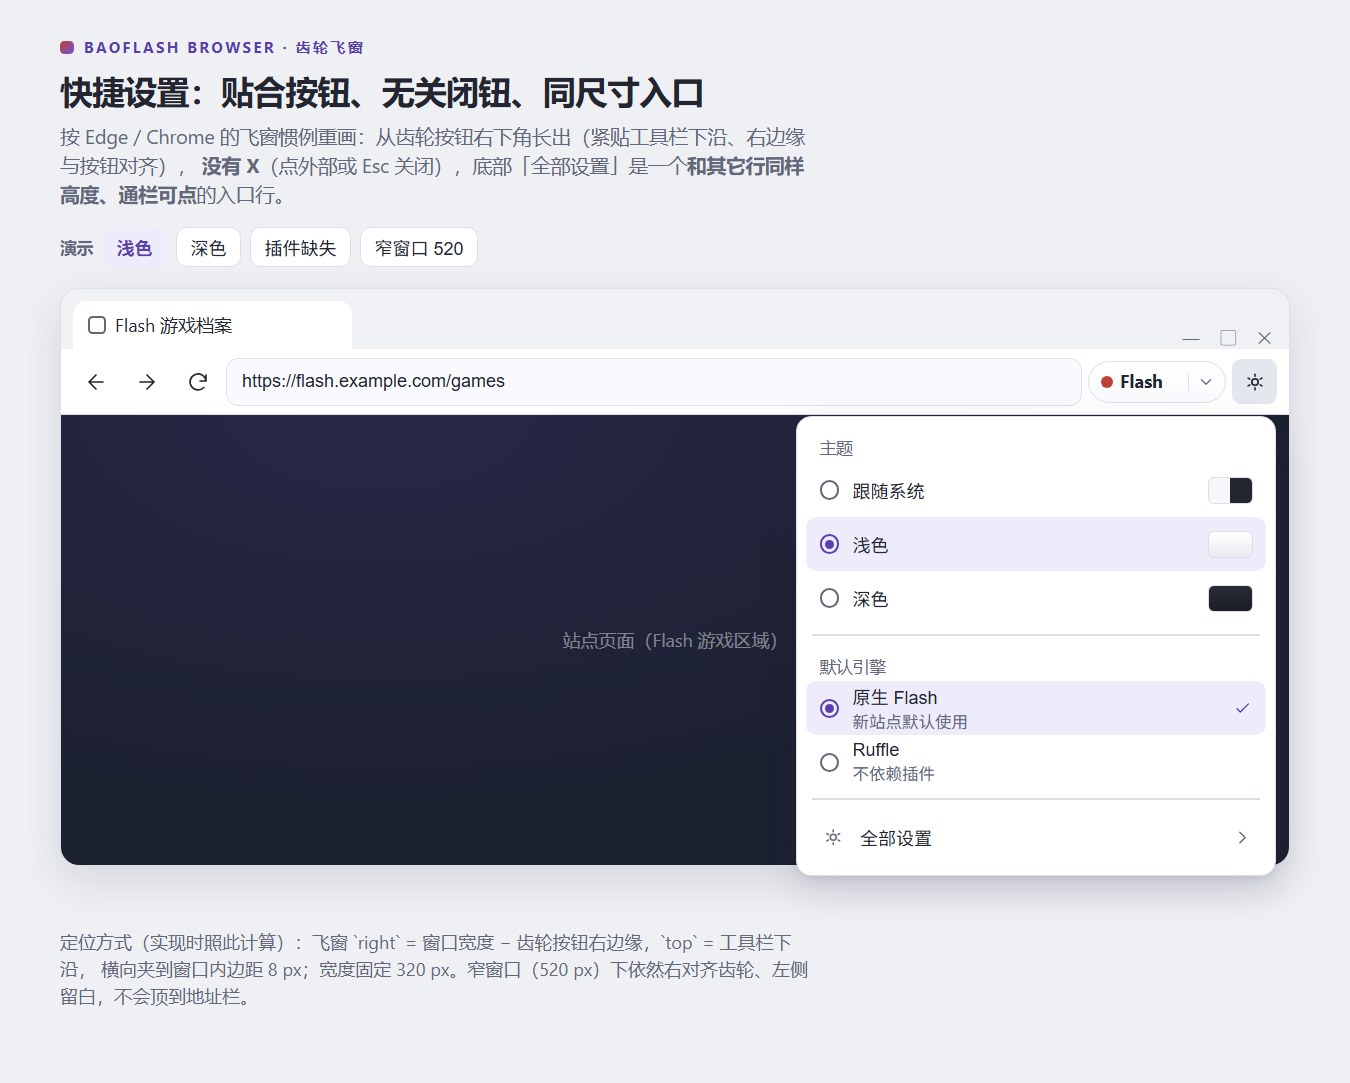
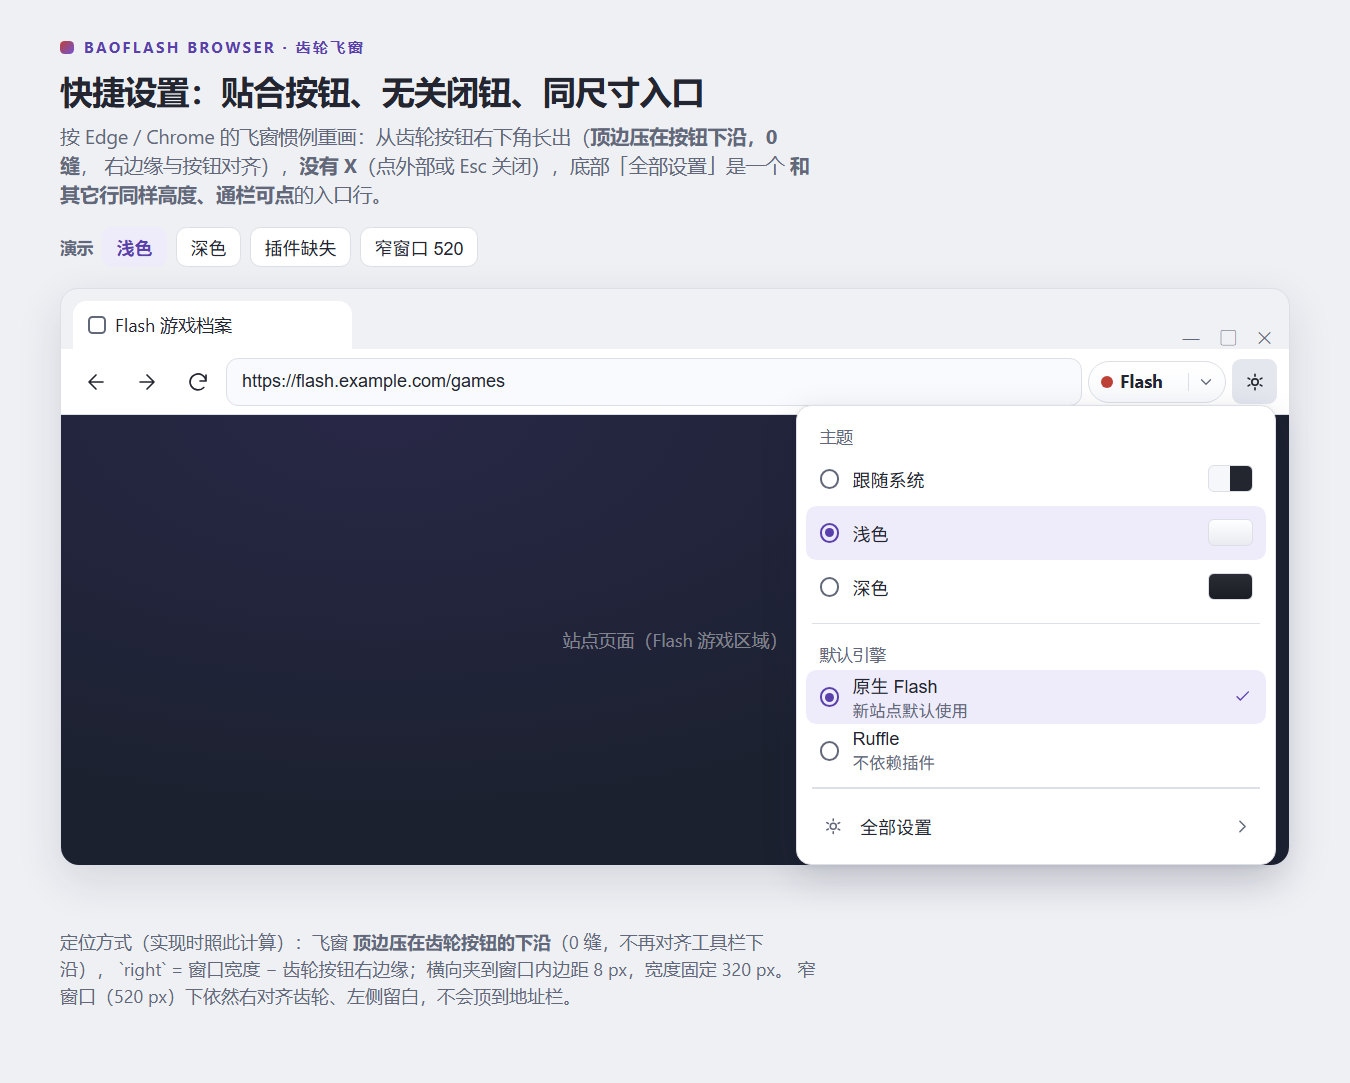
docs(design): 齿轮飞窗顶边压到按钮下沿（0 缝）
按反馈把定位从「工具栏下沿」改成「齿轮按钮下沿」：飞窗顶边与按钮底边重合，中间不留缝；右边缘仍与齿轮对齐，横向夹到窗口内边距 8 px（520 px 窄窗口下同样成立）。同步更新 demo 文案与四张渲染。

diff --git a/docs/design/gear-quick-settings.html b/docs/design/gear-quick-settings.html
@@ -108,8 +108,9 @@
   <p class="kicker">BAOFLASH BROWSER · 齿轮飞窗</p>
   <h1>快捷设置：贴合按钮、无关闭钮、同尺寸入口</h1>
   <p class="lead">
-    按 Edge / Chrome 的飞窗惯例重画：从齿轮按钮右下角长出（紧贴工具栏下沿、右边缘与按钮对齐），
-    <strong>没有 X</strong>（点外部或 Esc 关闭），底部「全部设置」是一个<strong>和其它行同样高度、通栏可点</strong>的入口行。
+    按 Edge / Chrome 的飞窗惯例重画：从齿轮按钮右下角长出（<strong>顶边压在按钮下沿，0 缝</strong>，
+    右边缘与按钮对齐），<strong>没有 X</strong>（点外部或 Esc 关闭），底部「全部设置」是一个
+    <strong>和其它行同样高度、通栏可点</strong>的入口行。
   </p>
 
   <div class="sim" aria-label="演示状态">
@@ -177,8 +178,9 @@
   <p class="toast-note" id="note" role="status"></p>
 
   <p class="foot-note">
-    定位方式（实现时照此计算）：飞窗 `right` = 窗口宽度 − 齿轮按钮右边缘，`top` = 工具栏下沿，
-    横向夹到窗口内边距 8 px；宽度固定 320 px。窄窗口（520 px）下依然右对齐齿轮、左侧留白，不会顶到地址栏。
+    定位方式（实现时照此计算）：飞窗 <strong>顶边压在齿轮按钮的下沿</strong>（0 缝，不再对齐工具栏下沿），
+    `right` = 窗口宽度 − 齿轮按钮右边缘；横向夹到窗口内边距 8 px，宽度固定 320 px。
+    窄窗口（520 px）下依然右对齐齿轮、左侧留白，不会顶到地址栏。
   </p>
 </main>
 
@@ -196,15 +198,13 @@
   function place() {
     if (quick.hidden) return
     const gearBox = gear.getBoundingClientRect()
-    const toolbar = $('toolbar').getBoundingClientRect()
     const frameBox = frame.getBoundingClientRect()
     const width = 320
     const inset = 8
-    // 右边缘与齿轮对齐；左侧夹到 8px，避免窄窗口下越界。
+    // 紧贴按钮：顶边压在齿轮按钮的下沿（0 缝），右边缘与齿轮对齐；横向夹到窗口内边距。
     const right = Math.max(inset, frameBox.right - gearBox.right)
-    const left = Math.min(frameBox.right - gearBox.right - width, width)
     quick.style.right = `${Math.min(right, Math.max(inset, frameBox.width - width - inset))}px`
-    quick.style.top = `${toolbar.bottom - frameBox.top}px`
+    quick.style.top = `${gearBox.bottom - frameBox.top}px`
   }
 
   function render() {
